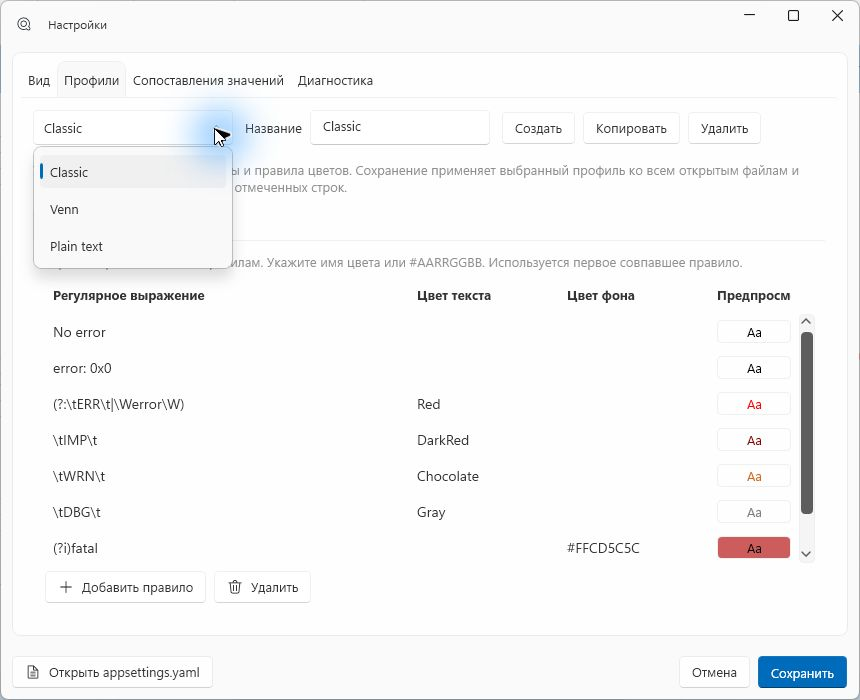
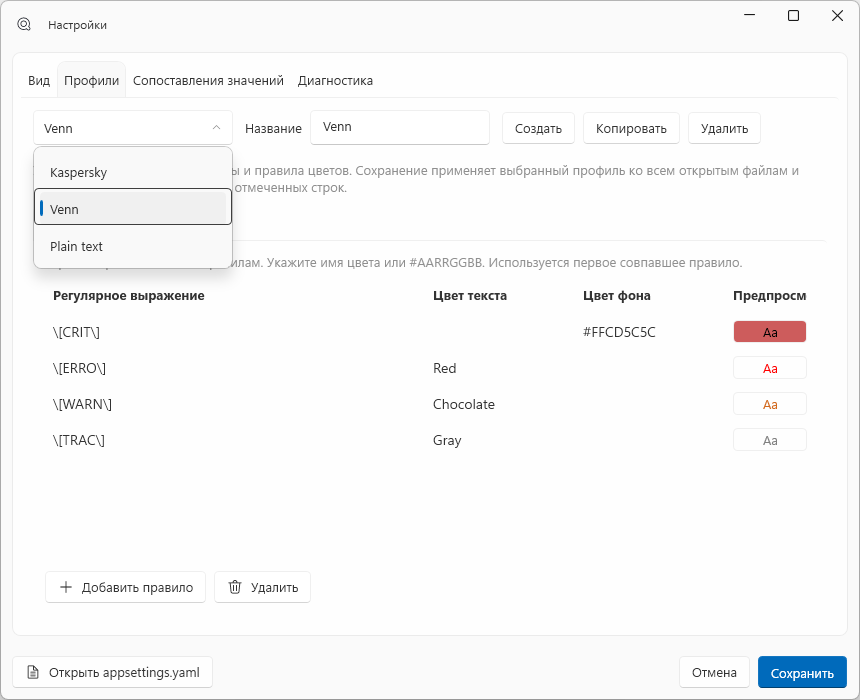
fix

diff --git a/FEATURES.md b/FEATURES.md
@@ -785,7 +785,7 @@ the whole configuration. Each named profile holds its own **log formats** and
 **color rules**. View options, language, binary detection, value mappings,
 updates and diagnostics are shared across profiles.
 
-![Profile management and color rules in Settings](assets/images/feature-settings-colors.png)
+![Profile selector and Venn color rules in Settings → Profiles (Russian interface)](assets/images/feature-profiles.png)
 
 1. Open **Settings → Profiles** and select a profile.
 2. Use **New** for an empty profile or **Copy** to duplicate the selected one;
@@ -793,8 +793,6 @@ updates and diagnostics are shared across profiles.
    one must remain.
 3. Edit its **Colors** and **Log formats** tabs, then click **Save**. The profile
    selected in Settings becomes active when saved.
-
-![Log formats belong to the selected profile](assets/images/feature-log-formats.png)
 
 For everyday switching, use the **profile selector in the main title bar**.
 The selection takes effect immediately, is saved, and applies to **all open
